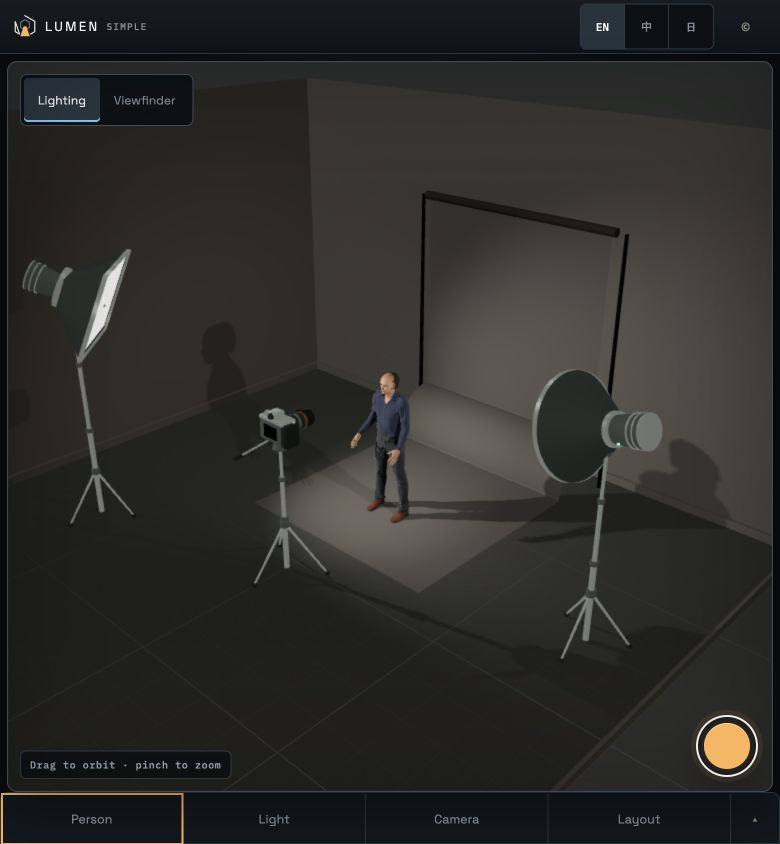
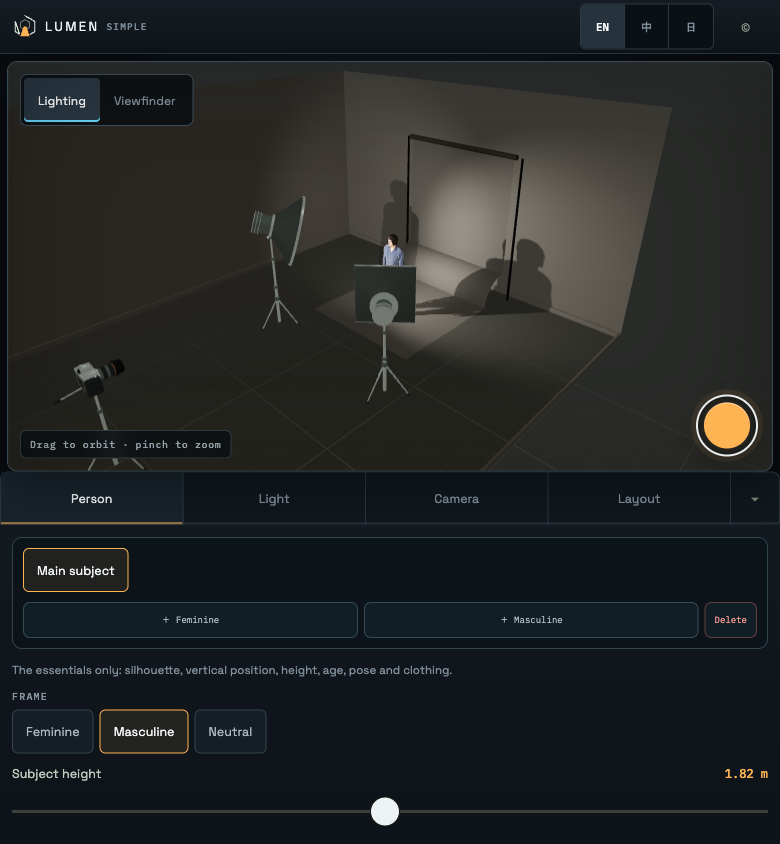
Mobile shell, inspector and media refresh
Work by Codex in this working tree: mobile layout and workflow-shell
changes, inspector and library adjustments, store updates, a model
verification script, and regenerated onboarding and site-preview imagery.

Committed separately from the actor swap so the two are separable.

diff --git a/e2e/studio-flows.spec.ts b/e2e/studio-flows.spec.ts
@@ -2,6 +2,59 @@ import { expect, test } from '@playwright/test'
 
 test.describe.configure({ mode: 'serial', timeout: 90_000 })
 
+function watchRuntimeHealth(page: import('@playwright/test').Page) {
+  const problems: string[] = []
+  page.on('pageerror', (error) => problems.push(`pageerror: ${error.message}`))
+  page.on('console', (message) => {
+    const text = message.text()
+    if (message.type() === 'error' || (message.type() === 'warning' && /shader error|webgl context lost|failed to (?:compile|link)|gltf.*(?:error|failed)/i.test(text))) {
+      problems.push(`${message.type()}: ${text}`)
+    }
+  })
+  page.on('requestfailed', (request) => {
+    if (new URL(request.url()).origin === 'http://127.0.0.1:4173') {
+      problems.push(`requestfailed: ${request.url()} ${request.failure()?.errorText ?? ''}`)
+    }
+  })
+  page.on('response', (response) => {
+    if (new URL(response.url()).origin === 'http://127.0.0.1:4173' && response.status() >= 400) {
+      problems.push(`response: ${response.status()} ${response.url()}`)
+    }
+  })
+  return problems
+}
+
+test('guides a first-time beginner through simple mode without runtime failures', async ({ page }) => {
+  const problems = watchRuntimeHealth(page)
+  await page.goto('/studio?ui=mobile')
+  await expect(page.getByRole('dialog', { name: 'Quick start tour' })).toBeVisible({ timeout: 50_000 })
+
+  for (let step = 0; step < 4; step += 1) await page.getByRole('button', { name: 'Next', exact: true }).click()
+  await page.getByRole('button', { name: 'Start creating', exact: true }).click()
+
+  await expect(page.getByRole('dialog', { name: 'Quick start tour' })).toHaveCount(0)
+  await expect(page.getByRole('tab', { name: 'Person' })).toBeVisible()
+  await expect(page.getByRole('tab', { name: 'Light' })).toBeVisible()
+  await expect(page.getByRole('tab', { name: 'Camera' })).toBeVisible()
+  await expect(page.getByRole('tab', { name: 'Layout' })).toBeVisible()
+  await expect.poll(() => page.evaluate(() => localStorage.getItem('lumen-stage:onboarding:v2:mobile'))).toBe('done')
+  expect(problems).toEqual([])
+})
+
+test('lets an experienced user enter professional mode immediately without runtime failures', async ({ page }) => {
+  const problems = watchRuntimeHealth(page)
+  await page.goto('/studio?ui=full')
+  await expect(page.getByRole('dialog', { name: 'Quick start tour' })).toBeVisible({ timeout: 50_000 })
+  await page.getByRole('button', { name: 'Skip', exact: true }).click()
+
+  await expect(page.getByRole('textbox', { name: 'Project name' })).toBeVisible()
+  await expect(page.getByRole('button', { name: '+ Add to stage', exact: true })).toBeVisible()
+  for (const mode of ['Person', 'Light', 'Camera', 'Layout']) {
+    await expect(page.getByRole('button', { name: mode, exact: true })).toBeVisible()
+  }
+  expect(problems).toEqual([])
+})
+
 test('autosaves a renamed project and exports its backup', async ({ page }) => {
   await page.goto('/studio?ui=full')
   const projectName = page.getByRole('textbox', { name: 'Project name' })

diff --git a/src/styles.css b/src/styles.css
@@ -2853,3 +2853,11 @@ header.topbar .project-actions.is-simplified .history-button:disabled {
     font-size: 17px;
   }
 }
+
+/* Keep all four workflow labels inside the compressed one-row header. The
+   original 92px minimum per item overflowed its track around laptop widths. */
+@media (min-width: 901px) and (max-width: 1180px) {
+  header.topbar .workflow-navigation {
+    grid-template-columns: repeat(4, minmax(0, 1fr));
+  }
+}
